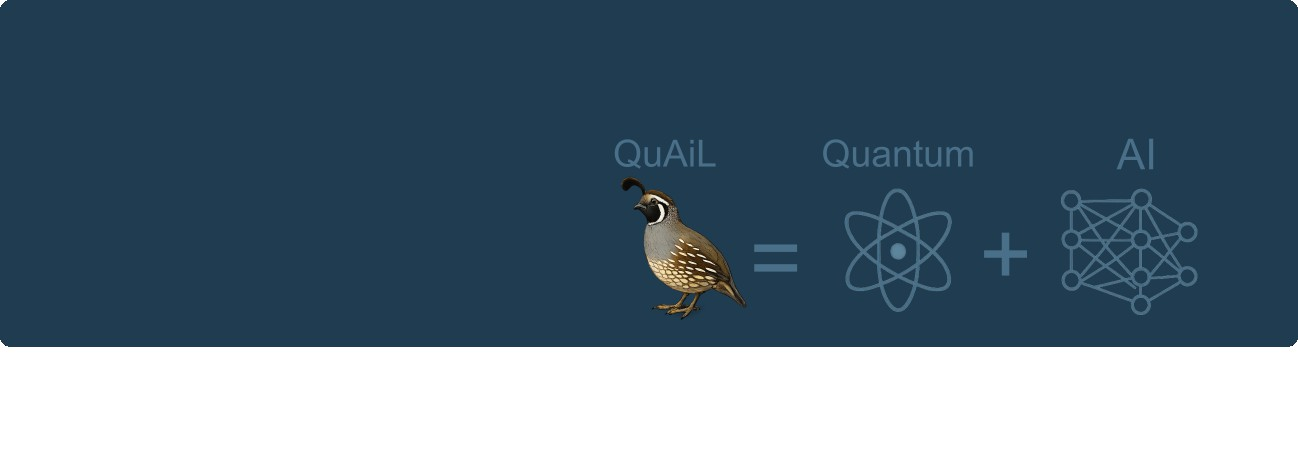
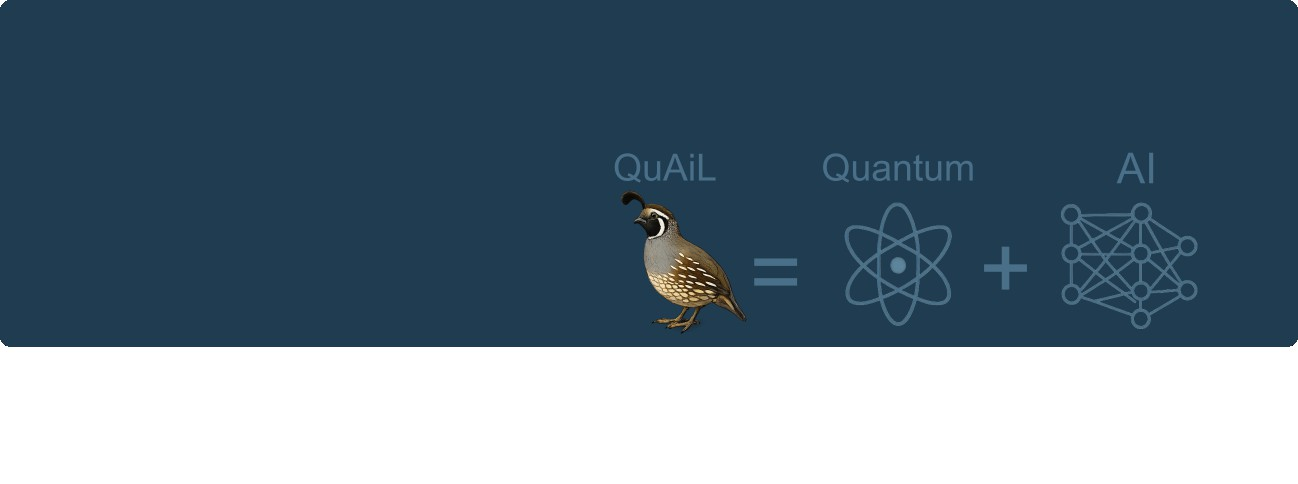
123

diff --git a/_sass/layout/_archive.scss b/_sass/layout/_archive.scss
@@ -9,7 +9,7 @@
   background-position: center;
   
   /* THIS SECTION FIXES THE SIZE FOR ALL PAGES */
-  height: 170px;        /* Set this to the height you like best */
+  height: 160px;        /* Set this to the height you like best */
   display: flex;         /* These 3 lines center the text "Teaching" etc. */
   align-items: center;   /* horizontally and vertically inside the box */
   justify-content: flex-start; 
